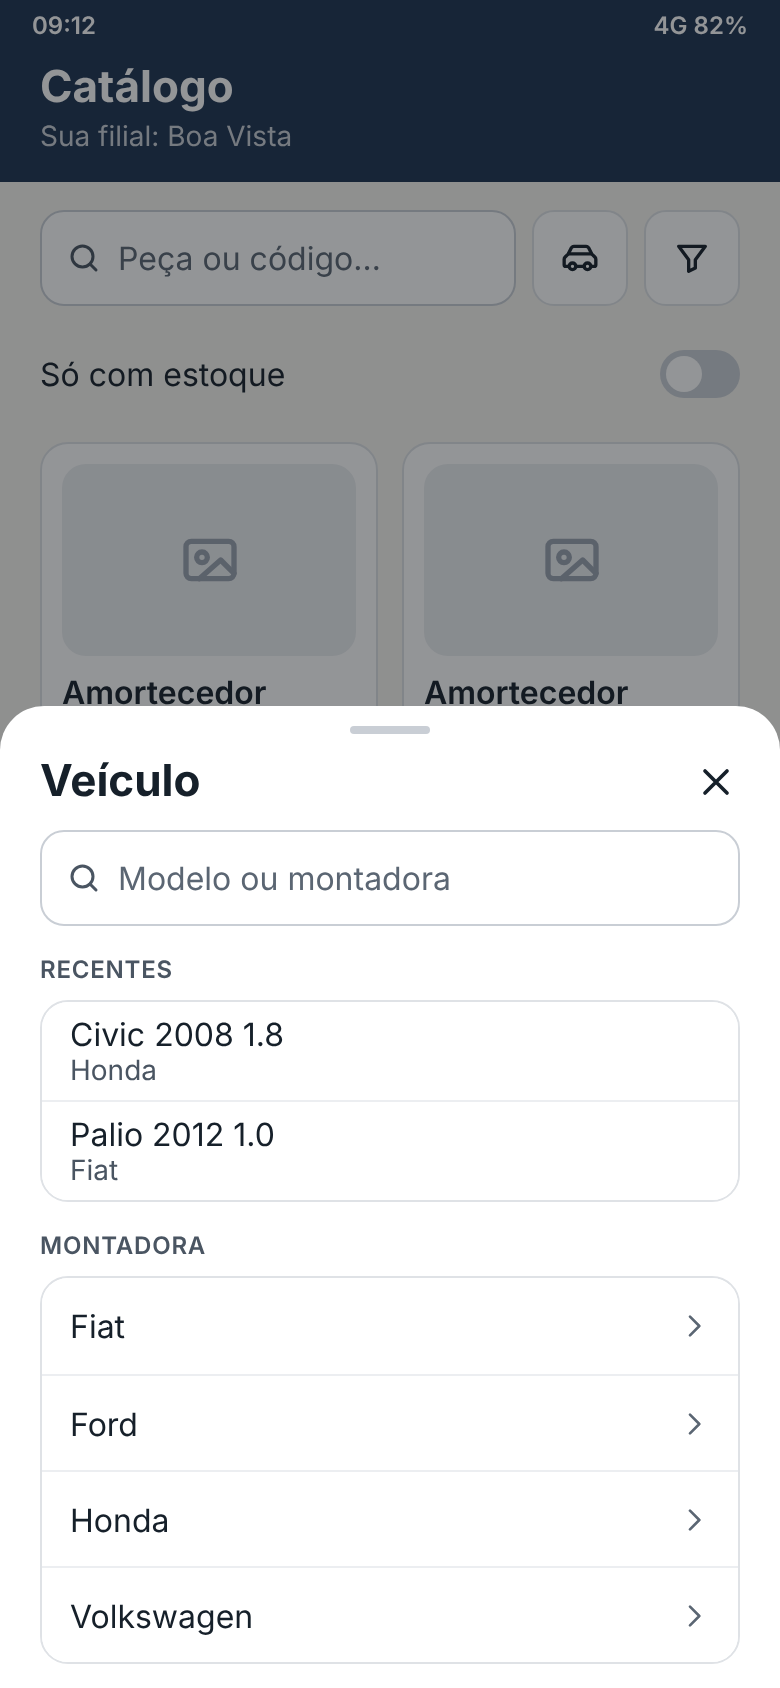
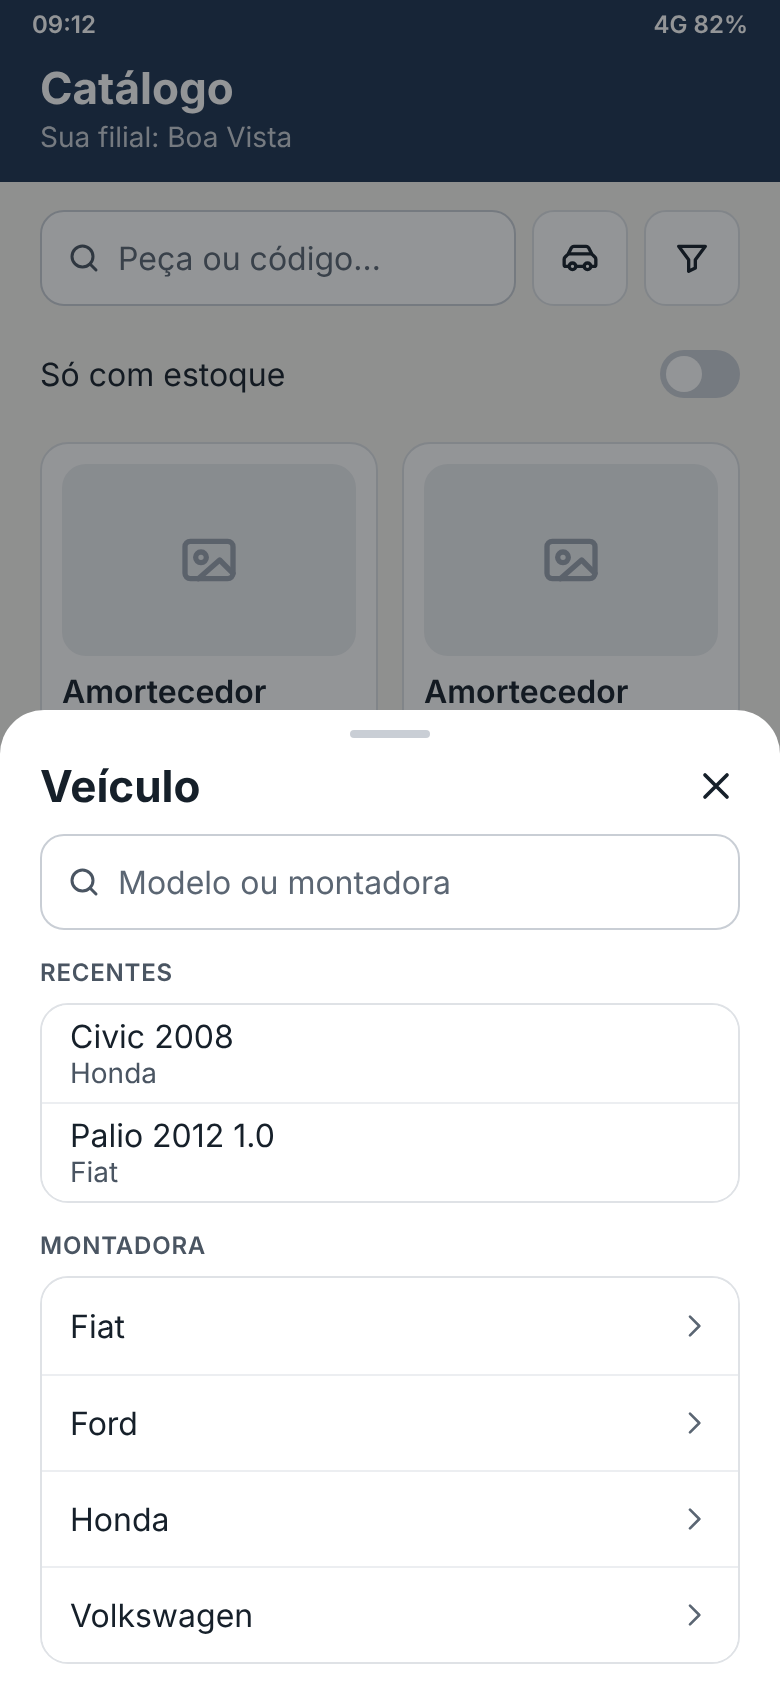
designer-ux — filtro de veículo: nível preenchido sozinho não filtra (D7, R-20261121-211200)
- spec §5 e D7 do §15 reescritos: ano, motor e versão que a cascata preenche sozinha não contam como escolhidos, não
  filtram e não entram na etiqueta; ficam na trilha em ink2, sem toque. Montadora e modelo automáticos seguem no veículo,
  como no domínio do Catálogo.
- §3 (etiqueta), §4.2 e §10 sem nada que diga que o automático filtra; o kit batente continua de exemplo, porque no
  Gol 2018 1.0 o motor foi tocado (1.0 entre 1.0 e 1.6).
- simulacao.html: a escolha aplicada tira ano, motor e versão automáticos; o recente vira Civic 2008.
- 02-folha-montadora.png refeito (Recentes: Civic 2008).

Agente: designer-ux

Claude-Session: https://claude.ai/code/session_019xHEXs75xqGq9m52u565UD

diff --git a/docs/design/filtro-veiculo/simulacao.html b/docs/design/filtro-veiculo/simulacao.html
@@ -215,11 +215,15 @@ function opcoes(nivel, v) {
   if (nivel === 'mont') return [...new Set(apps.map((a) => a.mont))].sort();
   if (nivel === 'modelo') return [...new Set(apps.map((a) => a.modelo))].sort((x, y) => x.localeCompare(y));
   if (nivel === 'ano') { const s = new Set(); apps.forEach((a) => { if (a.de != null) for (let y = a.de; y <= a.ate; y++) s.add(y); }); return [...s].sort((x, y) => y - x); }
-  apps = apps.filter((a) => cobreAno(a, v.ano));
+  if (v.ano != null) apps = apps.filter((a) => cobreAno(a, v.ano));
   if (nivel === 'motor') return [...new Set(apps.flatMap((a) => a.motores))].sort();
   if (v.motor) apps = apps.filter((a) => !a.motores.length || a.motores.includes(v.motor));
   return [...new Set(apps.flatMap((a) => a.versoes))].sort();
 }
+// a escolha é o que o vendedor tocou: ano, motor e versão que a cascata preencheu sozinha ficam só na trilha e não filtram
+// (D7, spec §5); montadora e modelo automáticos seguem na escolha, porque são o próprio veículo
+const SO_TRILHA = ['ano', 'motor', 'versao'];
+const escolhaDe = (r) => Object.fromEntries(Object.entries(r).filter(([k, x]) => x != null && !(S.auto.has(k) && SO_TRILHA.includes(k))));
 function proximoNivelAntes(v, depois, ate) {
   for (let i = NIVEIS.indexOf(depois) + 1; i < NIVEIS.indexOf(ate); i++) if (opcoes(NIVEIS[i], v).length >= 2 && v[NIVEIS[i]] == null) return true;
   return false;
@@ -228,7 +232,7 @@ function proximoNivel(v, depois) {
   for (let i = NIVEIS.indexOf(depois) + 1; i < NIVEIS.length; i++) { const n = NIVEIS[i]; if (v[n] == null && opcoes(n, v).length >= 2) return n; }
   return null;
 }
-// passa no filtro ou não (D4, spec §5): só restringe o que foi escolhido (o nível preenchido sozinho conta como escolhido);
+// passa no filtro ou não (D4, spec §5): só restringe o que o vendedor escolheu (o nível preenchido sozinho não filtra, D7);
 // o escolhido exige o dado no trecho: ano dentro da faixa (sem ano, não passa); motor e versão citados e iguais (D6 e D7, §15)
 function compat(p, v) {
   if (!v) return null;
@@ -253,7 +257,7 @@ function trechoNegrito(ap, v) {
 
 // ---------- estado ----------
 const INICIAL = () => ({ tela:'vitrine', veic:null, pedidoVeic:null, folha:null, rasc:{}, nivel:'mont', bf:'', q:'', qp:'', chips:{}, soEst:false, sinal:true, carregando:false, ficha:null, voltaDe:'vitrine',
-  auto:new Set(), recentes:[{ mont:'Honda', modelo:'Civic', ano:2008, motor:'1.8' }, { mont:'Fiat', modelo:'Palio', ano:2012, motor:'1.0' }], av:false });
+  auto:new Set(), recentes:[{ mont:'Honda', modelo:'Civic', ano:2008 }, { mont:'Fiat', modelo:'Palio', ano:2012, motor:'1.0' }], av:false });
 let S = INICIAL();
 const veicAtual = () => (S.tela === 'pedido' ? S.pedidoVeic : S.veic);
 function setVeic(v) { if (S.tela === 'pedido') S.pedidoVeic = v; else S.veic = v; }
@@ -362,8 +366,8 @@ function folhaVeiculo() {
     }
   } else {
     meio += tr + `<div class="rots" id="rot-nivel" tabindex="-1">${ROT_NIVEL[n]}</div>`;
-    const ops = opcoes(n, r);
-    const ultimo = !proximoNivel({ ...r }, n) && n !== 'mont' && n !== 'modelo';
+    const ops = opcoes(n, escolhaDe(r));
+    const ultimo = !proximoNivel(escolhaDe(r), n) && n !== 'mont' && n !== 'modelo';
     if (n === 'ano') meio += `<div class="anos">${ops.map((o) => `<button class="ano" data-a="esc" data-v="${o}">${o}</button>`).join('')}</div>`;
     else meio += `<div class="lista">${ops.map((o) => `<div class="opc" data-a="esc" data-v="${esc(o)}" role="button"><div class="tx"><span class="nm">${esc(o)}</span></div>${n === 'modelo' || !ultimo ? ic('chevron', 16, '#5B6673') : ''}</div>`).join('')}</div>`;
   }
@@ -404,11 +408,11 @@ function aplicar(v) {
   S.carregando = true; render(); setTimeout(() => { S.carregando = false; render(); }, 600);
 }
 function avancar(depois) {
-  // nível com uma opção só é preenchido sozinho (aparece na trilha sem toque); sem opção, pulado
-  for (let i = NIVEIS.indexOf(depois) + 1; i < NIVEIS.length; i++) { const n = NIVEIS[i]; const o = opcoes(n, S.rasc); if (o.length !== 1) continue; if (n === 'modelo' || n === 'ano' || n === 'motor' || n === 'versao') { if (proximoNivelAntes(S.rasc, depois, n)) break; S.rasc[n] = o[0]; S.auto.add(n); } }
-  const prox = proximoNivel(S.rasc, depois);
+  // nível com uma opção só é preenchido sozinho (aparece na trilha sem toque; ano, motor e versão não filtram); sem opção, pulado
+  for (let i = NIVEIS.indexOf(depois) + 1; i < NIVEIS.length; i++) { const n = NIVEIS[i]; const o = opcoes(n, escolhaDe(S.rasc)); if (o.length !== 1) continue; if (n === 'modelo' || n === 'ano' || n === 'motor' || n === 'versao') { if (proximoNivelAntes(escolhaDe(S.rasc), depois, n)) break; S.rasc[n] = o[0]; S.auto.add(n); } }
+  const prox = proximoNivel(escolhaDe(S.rasc), depois);
   if (prox) { S.nivel = prox; S.av = true; render(); const r = document.getElementById('rot-nivel'); if (r) r.focus({ preventScroll: true }); }
-  else aplicar({ ...S.rasc });
+  else aplicar(escolhaDe(S.rasc));
 }
 app.addEventListener('input', (e) => {
   if (e.target.id === 'q') S.q = e.target.value; else if (e.target.id === 'qp') S.qp = e.target.value; else if (e.target.id === 'bf') S.bf = e.target.value; else return;
@@ -416,7 +420,7 @@ app.addEventListener('input', (e) => {
 });
 app.addEventListener('click', (e) => {
   const el = e.target.closest('[data-a]'); if (!el) return; const a = el.dataset.a, d = el.dataset;
-  if (a === 'abrir-veiculo') { const v = veicAtual(); S.rasc = v ? { ...v } : {}; S.bf = ''; S.nivel = v ? (['versao', 'motor', 'ano'].find((k) => v[k] != null) || 'ano') : 'mont'; S.folha = 'veiculo'; }
+  if (a === 'abrir-veiculo') { const v = veicAtual(); S.rasc = v ? { ...v } : {}; S.auto = new Set(); S.bf = ''; S.nivel = v ? (['versao', 'motor', 'ano'].find((k) => v[k] != null) || 'ano') : 'mont'; S.folha = 'veiculo'; }
   else if (a === 'abrir-filtrar') S.folha = 'filtrar';
   else if (a === 'fechar-folha') S.folha = null;
   else if (a === 'tirar-veiculo') setVeic(null);
@@ -425,7 +429,7 @@ app.addEventListener('click', (e) => {
   else if (a === 'esc-modelo-busca') { S.auto = new Set(); S.rasc = { mont: d.m, modelo: d.v }; S.bf = ''; return avancar('modelo'); }
   else if (a === 'esc') { const n = S.nivel; const val = n === 'ano' ? +d.v : d.v; const r = {}; for (const k of NIVEIS) { if (k === n) break; if (S.rasc[k] != null) r[k] = S.rasc[k]; } r[n] = val; S.rasc = r; S.auto = new Set([...S.auto].filter((k) => NIVEIS.indexOf(k) < NIVEIS.indexOf(n))); return avancar(n); }
   else if (a === 'nivel') { S.auto = new Set([...S.auto].filter((k) => NIVEIS.indexOf(k) < NIVEIS.indexOf(d.n))); S.nivel = d.n; const r = {}; for (const k of NIVEIS) { if (k === d.n) break; if (S.rasc[k] != null) r[k] = S.rasc[k]; } S.rasc = r; }
-  else if (a === 'ver-pecas') return aplicar(Object.fromEntries(Object.entries(S.rasc).filter(([k, v]) => v != null && NIVEIS.indexOf(k) < NIVEIS.indexOf(S.nivel))));
+  else if (a === 'ver-pecas') return aplicar(Object.fromEntries(Object.entries(escolhaDe(S.rasc)).filter(([k]) => NIVEIS.indexOf(k) < NIVEIS.indexOf(S.nivel))));
   else if (a === 'chip') { const s = S.chips[d.g] || (S.chips[d.g] = new Set()); s.has(d.v) ? s.delete(d.v) : s.add(d.v); }
   else if (a === 'tirar-chip') S.chips[d.g].delete(d.v);
   else if (a === 'limpar-chips') S.chips = {};

diff --git a/docs/design/filtro-veiculo/spec.md b/docs/design/filtro-veiculo/spec.md
@@ -13,7 +13,7 @@
 | PNG | O que mostra |
 |---|---|
 | `01-vitrine.png` | Catálogo sem veículo: o botão Veículo entre a busca e o Filtrar |
-| `02-folha-montadora.png` | folha Veículo, 1º nível: busca de modelo, Recentes e montadoras |
+| `02-folha-montadora.png` | folha Veículo, 1º nível: busca de modelo, Recentes e montadoras (refeito pelo D7: `Civic 2008`, sem o motor que a cascata preenche sozinha) |
 | `03-folha-busca.png` | "gol" na busca da folha: o modelo direto, sem passar pela montadora |
 | `04-folha-ano.png` | nível Ano em grade de 4 colunas, sem rolagem lateral |
 | `05-folha-motor.png` | nível Motor, com a trilha `Volkswagen › Gol › 2018` |
@@ -57,7 +57,8 @@ novo (premissa P3).
 - **Exceção ao filtro padrão** (`filtro-padrao-campo/spec.md` §0): vira a 3ª peça de filtro fora da folha Filtrar, ao lado da
   busca. No balcão o veículo é o primeiro filtro, e dentro da Filtrar ele custaria um toque a mais (decisão D2).
 - **Etiqueta:** `EtiquetaFiltro` `Gol 2018 1.0 ✕`, a primeira da linha de etiquetas, sem a montadora (o modelo basta na tela; o
-  leitor de tela diz `Remover veículo Volkswagen Gol 2018 1.0`). Com versão: `Gol 2018 1.0 Trendline ✕`. O ✕ tira o veículo, e
+  leitor de tela diz `Remover veículo Volkswagen Gol 2018 1.0`). Com versão: `Gol 2018 1.0 Trendline ✕`. Só com o que o
+  vendedor tocou (§5): `Civic 2008 ✕`, sem o 1.8 que veio sozinho. O ✕ tira o veículo, e
   a lista volta à de antes. Tocar no botão Veículo de novo abre a folha no último nível escolhido.
 - **Linha de etiquetas sem rolagem lateral:** quebra em mais de uma linha quando não cabe (8 dp entre as linhas).
 - O veículo fica escolhido enquanto a tela está aberta. No pedido, vale só para aquele pedido; não entra no pedido, no PDF nem
@@ -87,8 +88,8 @@ quebra linha.
 
 - **Só aparecem as opções que existem nas aplicações** do catálogo do aparelho: nenhuma montadora, modelo ou ano sem peça.
 - **Nível com uma opção só é preenchido sozinho** e aparece na trilha em `ink2`, sem toque (como na `ListaNiveis`, T-0142): a Ford
-  só tem o EcoSport, e a folha vai direto para `Ford › EcoSport`, no Ano. **Nível sem opção é pulado** (aplicação sem motor
-  nem versão).
+  só tem o EcoSport, e a folha vai direto para `Ford › EcoSport`, no Ano. O que filtra e o que fica só na trilha está no §5
+  (D7). **Nível sem opção é pulado** (aplicação sem motor nem versão).
 - **Tocar avança** para o próximo nível (movimento lateral de 240 ms; com "reduzir movimento", só troca). No **último nível
   que existe**, tocar aplica e fecha (sem o `Ver peças`).
 - **Busca da folha:** acha modelo e montadora pelo nome e pelos apelidos (VW, GM, Chevy, MB; etapa 1 da auditoria). Cada
@@ -107,10 +108,13 @@ escolheu. A peça entra quando um trecho da aplicação cita o modelo escolhido 
 - **ano não escolhido** (`Ver peças` no nível Ano): entram todas as peças do modelo, **inclusive as sem ano**;
 - **motor e versão** (decidido, R-20261121-211200-alexandre: a mesma regra do ano; RN-CAT-22): **escolhido**, a peça precisa
   ter o dado no trecho e ele precisa bater; o trecho sem motor ou sem versão **não entra** (ex.: o kit batente e coifa,
-  `VW Gol 2014–2019`, sem motor, some do Gol 2018 1.0). **Não escolhido**, não filtra (`Gol 2017–2019 Highline` entra no
-  Gol 2018);
-- o nível que a cascata **preencheu sozinha** (§4.2) conta como escolhido e filtra como se o vendedor tivesse tocado
-  (decidido, R-20261121-211200-alexandre).
+  `VW Gol 2014–2019`, sem motor, some do Gol 2018 1.0, em que o vendedor tocou o 1.0 entre o 1.0 e o 1.6). **Não
+  escolhido**, não filtra (`Gol 2017–2019 Highline` entra no Gol 2018);
+- **nível preenchido sozinho** (§4.2; decidido, R-20261121-211200-alexandre, D7): ano, motor ou versão que a cascata
+  preencheu por ter uma opção só **não conta como escolhido e não filtra**. Fica só na trilha, fora da etiqueta. Ex.: com
+  um ano só do Gol na base, "só Gol" mostra todas as peças do Gol, inclusive as sem ano; no Civic 2008 o motor 1.8 vem
+  sozinho, e a lista é a do Civic 2008 (entra o disco `Civic 07–11`, sem motor). Montadora e modelo preenchidos sozinhos
+  são o próprio veículo e seguem nele.
 
 A peça aparece ou não aparece: **não há item "de conferir"**.
 - **Cartão como hoje:** sem chip `Compatível` e sem a linha `Serve em` do veículo. A lista não mistura casos, e a etiqueta
@@ -170,7 +174,7 @@ A peça aparece ou não aparece: **não há item "de conferir"**.
 |---|---|
 | veículo recente | **2**: Veículo, o recente |
 | modelo pela busca da folha | **3**: Veículo, `Gol` (depois de digitar), `Ver peças`; sem o ano, entram todas as peças do Gol, inclusive as sem ano (§5). Com o ano, 4 |
-| cascata até o ano | 4: Veículo, Volkswagen, Gol, 2018 (com motor e versão de uma opção só, o ano já fecha) |
+| cascata até o ano | 4: Veículo, Volkswagen, Gol, 2018 (com motor e versão de uma opção só, o ano já fecha, e eles não filtram, §5) |
 | cascata completa | até 6: + motor + versão; cada nível depois do Ano é opcional (`Ver peças`) |
 | busca por texto, sem a folha | 0 toques: `gol 2018` na busca da tela continua achando (etapas 1 a 4) |
 
@@ -229,7 +233,8 @@ Contrato de API e índice de veículos (engenheiro-software, modulo-catalogo), a
   escolhido; a peça aparece ou não aparece (§5).
 - **D5. BKO** (decidido, R-20261120-234013-alexandre): nada nesta etapa (§2).
 - **D6. Motor e versão** (decidido, R-20261121-211200-alexandre; RN-CAT-22): a mesma regra do ano (§5).
-- **D7. Nível preenchido sozinho** (decidido, R-20261121-211200-alexandre; RN-CAT-22): conta como escolhido e filtra (§5).
+- **D7. Nível preenchido sozinho** (decidido, R-20261121-211200-alexandre: "campo não escolhido não filtra"; RN-CAT-22): não conta
+  como escolhido e não filtra (§5).
 
 ### Dúvida aberta (para o dono do produto)
 1. **Rótulo do 2º grupo da Filtrar** (§6): o `rotuloDoNivel` do Catálogo diz `Grupo`; o D1 escreve "família". Qual vale na
